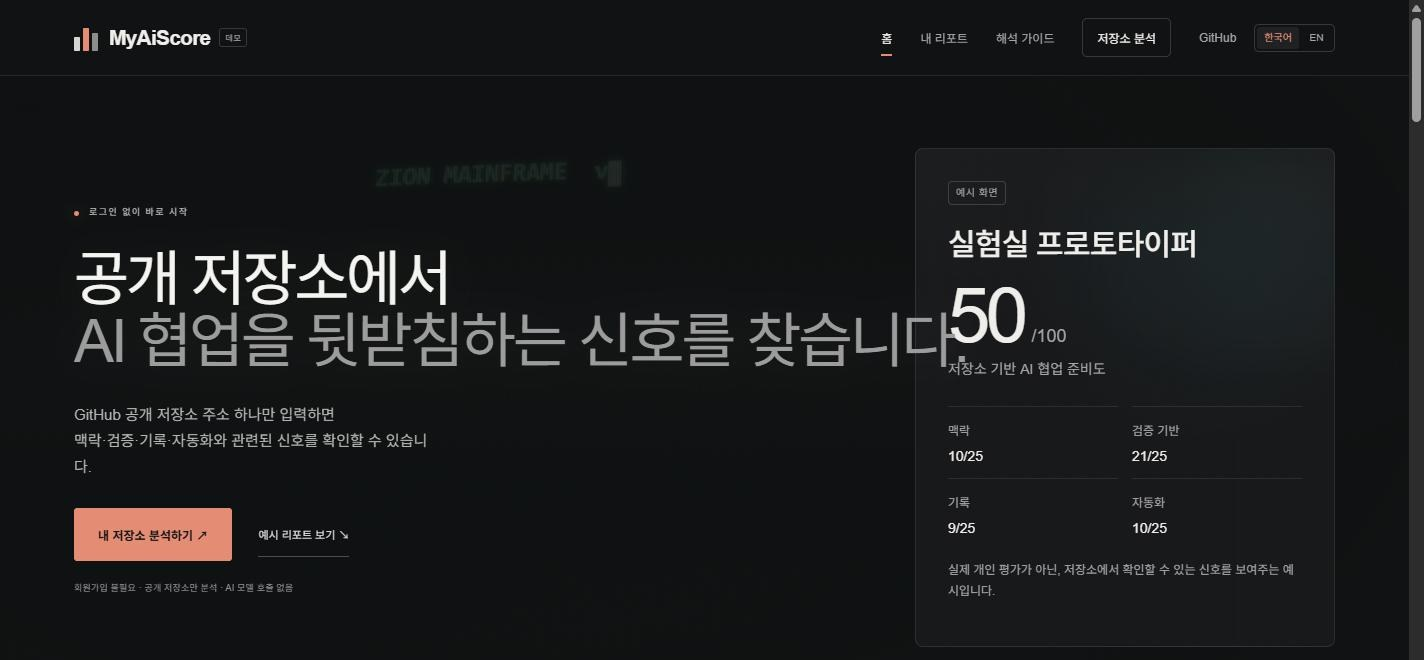
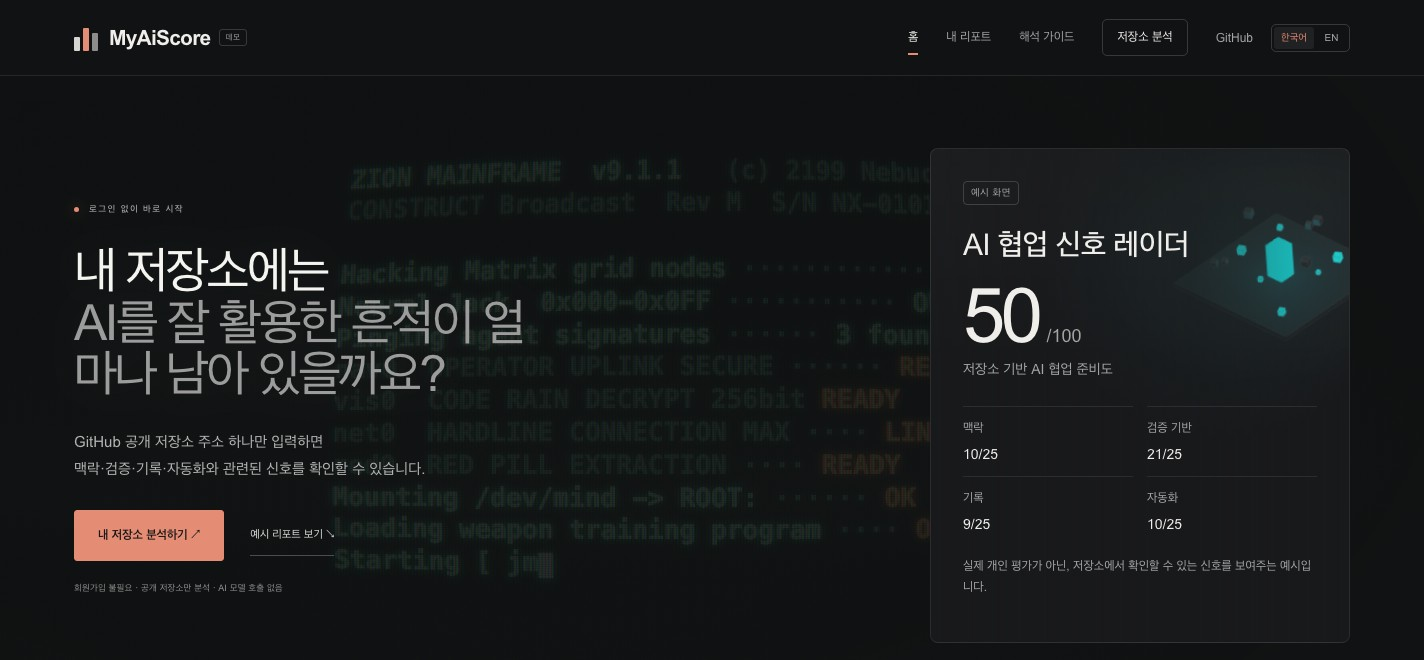
copy: make home headline more direct

diff --git a/src/i18n/messages.ts b/src/i18n/messages.ts
@@ -23,7 +23,7 @@ const ko = {
     save: "이 브라우저에 저장", downloadCard: "결과 카드 저장", shareCard: "결과 카드 공유", cardIntro: "결과 카드는 저장소명·커밋·점수·유형만 담으며 원문은 포함하지 않아요.", insightsLink: "점수 해석 보기 →", saved: "이 브라우저의 ‘내 리포트’에 저장했어요.", saveError: "브라우저 저장 공간에 리포트를 저장하지 못했어요.", cardSaved: "PNG 결과 카드를 저장했어요.", cardShared: "결과 카드를 공유했어요.", cardShareFallback: "이 브라우저는 이미지 공유를 지원하지 않아 PNG로 저장했어요.", cardError: "결과 카드를 만들지 못했어요. 잠시 뒤 다시 시도해 주세요.",
   },
   home: {
-    kicker: "로그인 없이 바로 시작", title1: "공개 저장소에서", title2: "AI 협업을 뒷받침하는 신호를 찾습니다.", lead1: "GitHub 공개 저장소 주소 하나만 입력하면", lead2: "맥락·검증·기록·자동화와 관련된 신호를 확인할 수 있습니다.",
+    kicker: "로그인 없이 바로 시작", title1: "내 저장소에는", title2: "AI를 잘 활용한 흔적이 얼마나 남아 있을까요?", lead1: "GitHub 공개 저장소 주소 하나만 입력하면", lead2: "맥락·검증·기록·자동화와 관련된 신호를 확인할 수 있습니다.",
     primary: "내 저장소 분석하기 ↗", example: "예시 리포트 보기 ↘", availability: "회원가입 불필요 · 공개 저장소만 분석 · AI 모델 호출 없음",
     demoTag: "예시 화면", demoCaption: "실제 개인 평가가 아닌, 저장소에서 확인할 수 있는 신호를 보여주는 예시입니다.",
     chapters: [{ label: "분석 방법", text: "주소 하나로 바로 확인합니다." }, { label: "확인 범위", text: "저장소에 남은 신호만 분석합니다." }, { label: "리포트 예시", text: "점수와 근거를 함께 보여드립니다." }],

diff --git a/tests/browser/experience.spec.ts b/tests/browser/experience.spec.ts
@@ -6,7 +6,7 @@ test('한국어 홈은 로그인 없는 공개 저장소 흐름과 가상 예시
   page.on('pageerror', error => errors.push(error.message));
   await page.goto('/');
   await expect(page.locator('html')).toHaveAttribute('lang', 'ko');
-  await expect(page.getByRole('heading', { level: 1, name: /공개 저장소에서/ })).toBeVisible();
+  await expect(page.getByRole('heading', { level: 1, name: /AI를 잘 활용한 흔적이 얼마나 남아 있을까요/ })).toBeVisible();
   await expect(page.getByText('회원가입 불필요', { exact: false })).toBeVisible();
   await expect(page.getByRole('link', { name: '내 저장소 분석하기' })).toHaveAttribute('href', '/evaluate');
   await expect(page.locator('.landing-world.repo-hero-card')).toContainText('AI 협업 신호 레이더');
@@ -26,7 +26,7 @@ test('주요 메뉴는 데스크톱과 모바일에서 한국어로 탐색되고
   await page.emulateMedia({ reducedMotion: 'reduce' });
   await page.goto('/');
   for (const [name, path, heading] of [
-    ['홈', '/', /공개 저장소에서/],
+    ['홈', '/', /AI를 잘 활용한 흔적이 얼마나 남아 있을까요/],
     ['내 리포트', '/profile', '내 리포트'],
     ['해석 가이드', '/insights', '해석 가이드'],
     ['저장소 분석', '/evaluate', '공개 저장소 분석'],

diff --git a/tests/browser/workspace.spec.ts b/tests/browser/workspace.spec.ts
@@ -47,7 +47,7 @@ async function interceptReport(page: Page, payload = report(), delayMs = 0) {
 
 test('홈은 자연스러운 한국어로 분석 범위와 네 가지 신호를 설명한다', async ({ page }) => {
   await page.goto('/');
-  await expect(page.getByRole('heading', { level: 1 })).toContainText('AI 협업을 뒷받침하는 신호를 찾습니다.');
+  await expect(page.getByRole('heading', { level: 1 })).toContainText('AI를 잘 활용한 흔적이 얼마나 남아 있을까요?');
   await expect(page.locator('.repo-animated-title .repo-title-line')).toHaveCount(2);
   await expect(page.locator('.repo-crt-background .crt-terminal canvas')).toBeVisible();
   const heroCard = page.locator('.landing-world.repo-hero-card');

diff --git a/docs/UI/USER_FLOW.md b/docs/UI/USER_FLOW.md
@@ -4,7 +4,7 @@ Decisions: [ADR-0015](../Architecture/ADR/0015-anonymous-korean-repository-repor
 
 ## 첫 방문
 
-홈의 첫 화면에서 제품이 공개 저장소에서 AI 협업을 뒷받침하는 신호를 분석한다고 설명한다. URL 입력과 `내 저장소 분석하기`가 기본 CTA다. 로그인·CLI·질문이 필요 없고 public 저장소만 지원함을 입력 가까이에 표시한다. 결과의 한계를 숨긴 과장된 능력 문구를 사용하지 않는다.
+홈의 첫 화면은 `내 저장소에는 AI를 잘 활용한 흔적이 얼마나 남아 있을까요?`라고 사용자의 궁금증을 직접 묻는다. 저장소에 실제로 남은 자료를 본다는 범위는 제목 안에 유지한다. URL 입력과 `내 저장소 분석하기`가 기본 CTA다. 로그인·CLI·질문이 필요 없고 public 저장소만 지원함을 입력 가까이에 표시한다. 결과의 한계를 숨긴 과장된 능력 문구를 사용하지 않는다.
 
 첫 방문은 한국어다. 공통 헤더의 언어 전환에서 영어를 선택하면 현재 브라우저에 선택을 저장하고 다음 요청의 `<html lang>`, 메타데이터, 탐색과 본문을 영어로 함께 렌더링한다. 잘못된 언어 쿠키는 한국어로 되돌린다. 언어 선택은 리포트 데이터나 GitHub 계정과 연결하지 않는다.
 

diff --git a/docs/Development/CHANGELOG.md b/docs/Development/CHANGELOG.md
@@ -1,5 +1,10 @@
 # Changelog
 
+## 2026-09-19 — 홈 질문형 헤드라인
+
+- 추상적인 `공개 저장소에서 AI 협업을 뒷받침하는 신호를 찾습니다.`를 사용자의 목적을 바로 묻는 `내 저장소에는 AI를 잘 활용한 흔적이 얼마나 남아 있을까요?`로 바꿨다.
+- 개인 능력을 직접 인증한다고 단정하지 않고, 관찰 대상이 저장소에 남은 흔적이라는 경계는 제목 안에 유지했다.
+
 ## 2026-09-19 — 레이더 카드 배치와 점수 규칙 기본 접힘
 
 - 결과 카드 우측 영역의 순서를 협업 유형 요약 → 4축 레이더로 바꿔, 설명을 먼저 읽고 그래프를 확인하는 흐름으로 조정했다.

diff --git a/README.md b/README.md
@@ -1,6 +1,6 @@
 <div align="center">
 
-<img src="docs/assets/readme/hero.jpg" alt="MyAiScore — 공개 저장소에서 AI 협업 신호를 찾는 홈 화면" width="860">
+<img src="docs/assets/readme/hero.jpg" alt="MyAiScore — 저장소에 남은 AI 활용 흔적을 살펴보는 홈 화면" width="860">
 
 # MyAiScore
 
